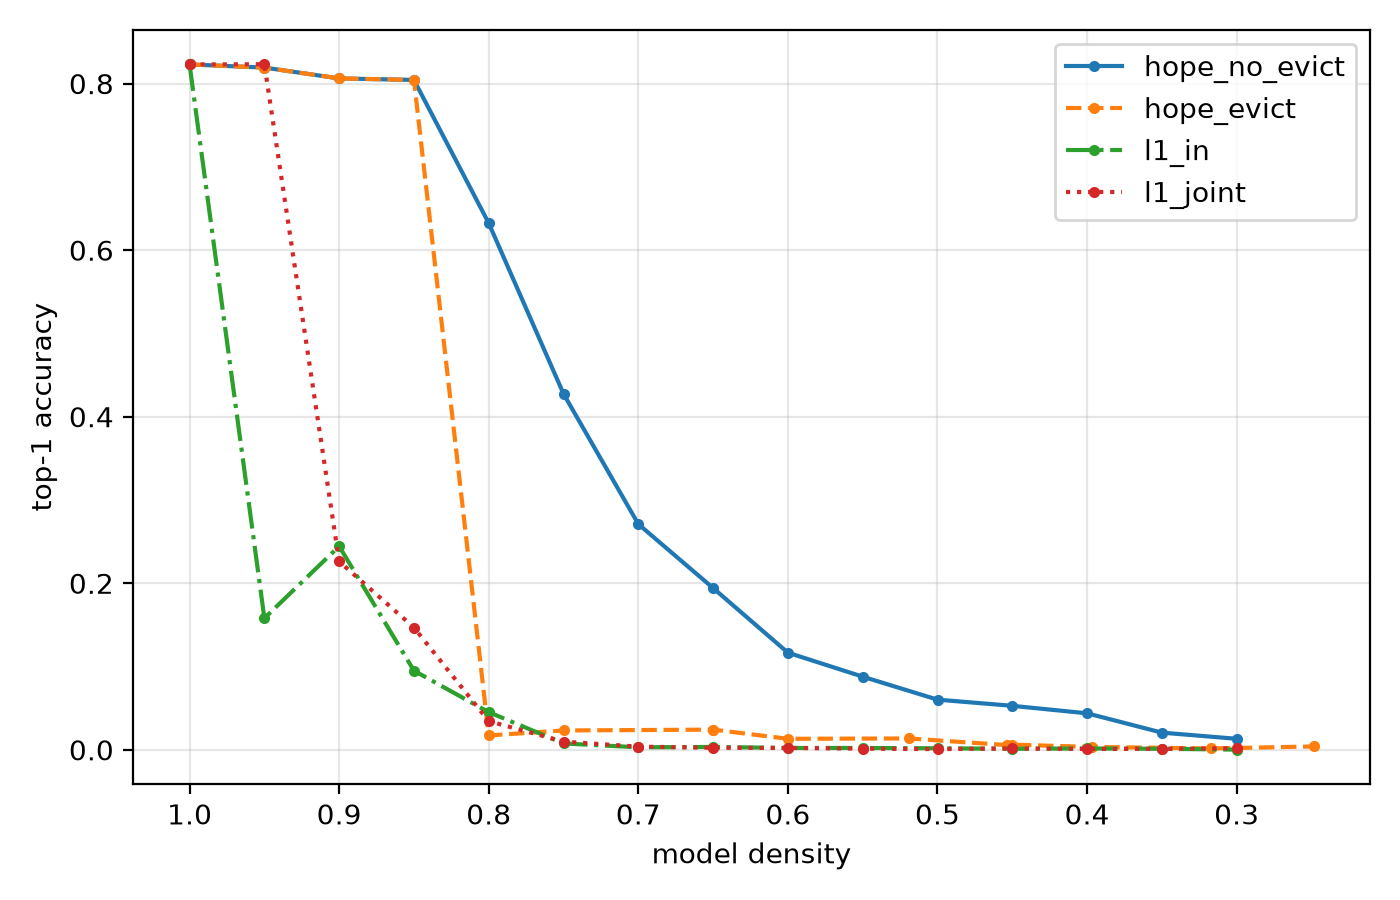
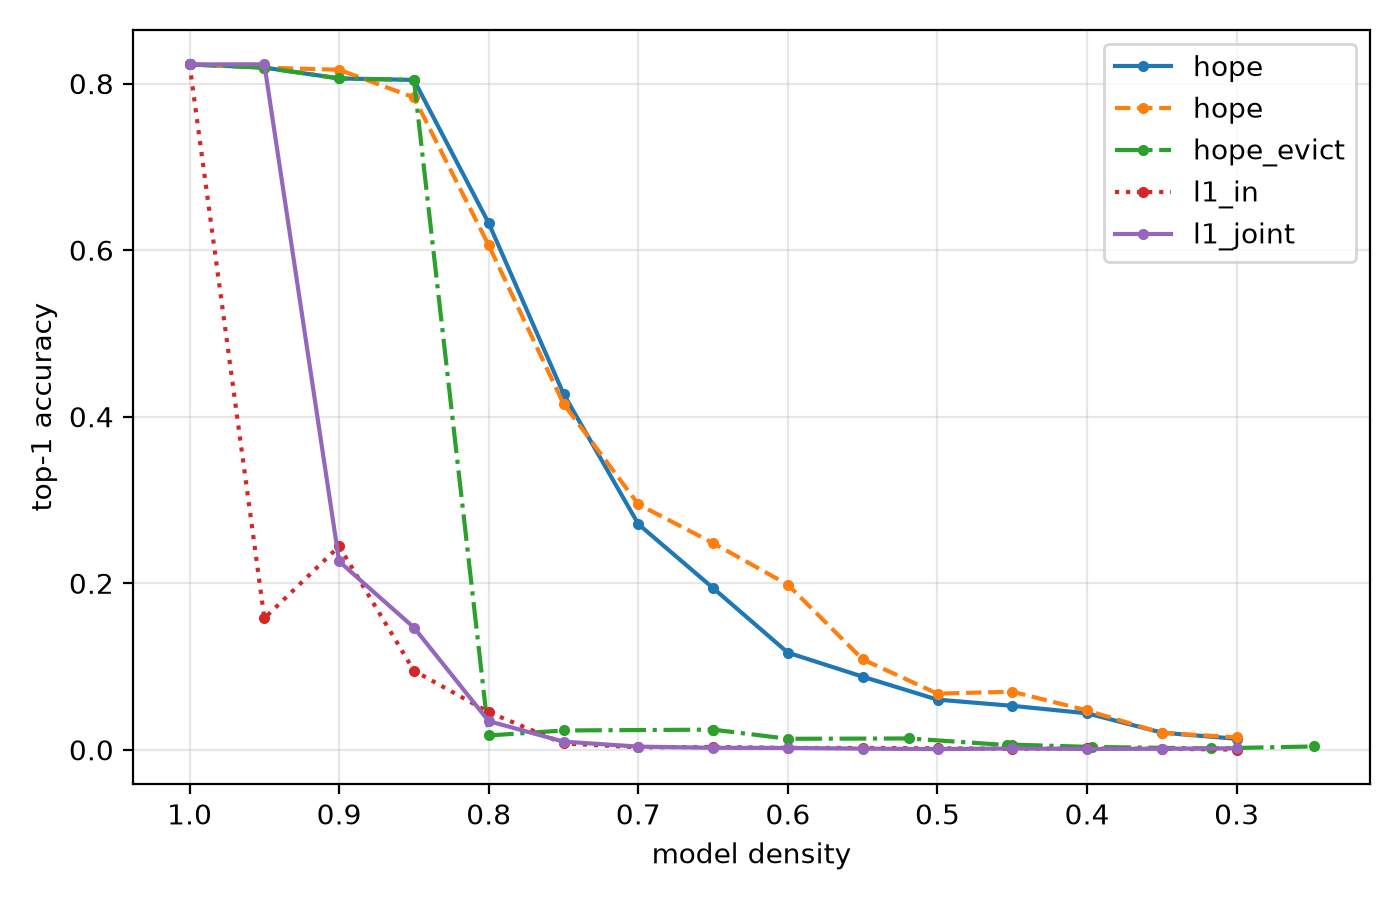
add exact kernel vit sweep and faster kernels

diff --git a/hope/cache.py b/hope/cache.py
@@ -9,12 +9,17 @@ from .parent import synthesize_parent
 
 
 class LayerCache:
-    """Per-layer pair geometry cache; costs are O(1) scalar arithmetic at scan time."""
+    """Per-layer pair geometry cache; costs are O(1) scalar arithmetic at scan time.
 
-    def __init__(self, surrogate, kernel_mode="zero_bias", pair_dtype=None):
+    slim mode keeps only the b matrix resident after init and recomputes pair geometry
+    on demand, so wide layers (Whisper large) fit in memory.
+    """
+
+    def __init__(self, surrogate, kernel_mode="zero_bias", pair_dtype=None, slim=False):
         self.surrogate = surrogate
         self.kernel_mode = kernel_mode
         self.act = get_kernels(surrogate.activation)
+        self.slim = slim
         n = surrogate.n
         self.active = np.ones(n, dtype=bool)
         w_aug = surrogate.w_aug
@@ -32,35 +37,61 @@ class LayerCache:
             self.b_mat[ii, jj] = b
             self.b_mat[jj, ii] = b
         if pair_dtype is not None:
-            for name in ("g", "o", "rho_hat", "b_mat"):
+            self.b_mat = self.b_mat.astype(pair_dtype)
+        self._tri = np.triu_indices(n, k=1) if n > 1 else (np.empty(0, dtype=np.int64),) * 2
+        self._tri = (self._tri[0].astype(np.int32), self._tri[1].astype(np.int32))
+        if slim:
+            self._g_diag = np.diag(self.g).copy()
+            self._o_diag = np.diag(self.o).copy()
+            self._norms = np.maximum(np.linalg.norm(surrogate.w_eff, axis=1), TINY)
+            self.g = self.o = self.rho_hat = None
+        elif pair_dtype is not None:
+            for name in ("g", "o", "rho_hat"):
                 setattr(self, name, getattr(self, name).astype(pair_dtype))
 
     @property
     def n_live(self):
         return int(self.active.sum())
 
+    def _pair_geometry(self, ii, jj):
+        """(g11, g12, g22, o11, o12, o22, rho) for pair index arrays."""
+        if not self.slim or self.g is not None:
+            return (
+                self.g[ii, ii], self.g[ii, jj], self.g[jj, jj],
+                self.o[ii, ii], self.o[ii, jj], self.o[jj, jj],
+                self.rho_hat[ii, jj],
+            )
+        surr = self.surrogate
+        w_aug = surr.w_aug
+        g12 = np.einsum("ij,ij->i", w_aug[ii], w_aug[jj])
+        o12 = np.einsum("ij,ij->i", surr.w_out[ii], surr.w_out[jj])
+        cos = np.einsum("ij,ij->i", surr.w_eff[ii], surr.w_eff[jj]) / (self._norms[ii] * self._norms[jj])
+        rho = warped_correlation(cos, surr.gamma[ii], surr.gamma[jj], self._norms[ii], self._norms[jj])
+        return (
+            self._g_diag[ii], g12, self._g_diag[jj],
+            self._o_diag[ii], o12, self._o_diag[jj], rho,
+        )
+
+    def pair_rho(self, i, j):
+        return float(self._pair_geometry(np.array([i]), np.array([j]))[6][0])
+
     def _cross_batch(self, gamma_u, beta_u, gamma_k, beta_k, corr, k_uu, k_kk):
         if self.kernel_mode == "zero_bias":
             return self.act.interaction(corr) * np.sqrt(np.maximum(k_uu * k_kk, 0.0))
         return self.act.cross_exact(gamma_u, beta_u, gamma_k, beta_k, corr)
 
-    def _objective_batch(self, c1, c2, ii, jj, o11, o12, o22):
+    def _objective_batch(self, c1, c2, ii, jj, rho, o11, o12, o22):
         surr = self.surrogate
         gi2 = surr.gamma[ii] ** 2
         gj2 = surr.gamma[jj] ** 2
         gi = np.abs(surr.gamma[ii])
         gj = np.abs(surr.gamma[jj])
-        rho = self.rho_hat[ii, jj]
         cov_ij = gi * gj * rho
         beta_u = c1 * surr.beta[ii] + c2 * surr.beta[jj]
         var_u = c1 * c1 * gi2 + c2 * c2 * gj2 + 2 * c1 * c2 * cov_ij
         gamma_u = np.sqrt(np.maximum(var_u, 0.0))
-        corr_ui = np.clip(
-            (c1 * gi2 + c2 * cov_ij) / np.maximum(gamma_u * gi, TINY), -1.0, 1.0
-        )
-        corr_uj = np.clip(
-            (c2 * gj2 + c1 * cov_ij) / np.maximum(gamma_u * gj, TINY), -1.0, 1.0
-        )
+        corr_ui = np.clip((c1 * gi2 + c2 * cov_ij) / np.maximum(gamma_u * gi, TINY), -1.0, 1.0)
+        corr_uj = np.clip((c2 * gj2 + c1 * cov_ij) / np.maximum(gamma_u * gj, TINY), -1.0, 1.0)
         k_uu = self.act.self_kernel(gamma_u, beta_u)
         k_ui = self._cross_batch(gamma_u, beta_u, gi, surr.beta[ii], corr_ui, k_uu, self.k_ii[ii])
         k_uj = self._cross_batch(gamma_u, beta_u, gj, surr.beta[jj], corr_uj, k_uu, self.k_ii[jj])
@@ -71,12 +102,8 @@ class LayerCache:
 
     def _pair_b(self, ii, jj):
         """Cached scalar b = <psi*, f_i + f_j> for pairs, eq (40) context, vectorized eq (14)."""
-        g11 = np.maximum(self.g[ii, ii], TINY)
-        g12 = self.g[ii, jj]
-        g22 = self.g[jj, jj]
-        o11 = self.o[ii, ii]
-        o12 = self.o[ii, jj]
-        o22 = self.o[jj, jj]
+        g11, g12, g22, o11, o12, o22, rho = self._pair_geometry(ii, jj)
+        g11 = np.maximum(g11, TINY)
 
         l11 = np.sqrt(g11)
         l21 = g12 / l11
@@ -104,8 +131,8 @@ class LayerCache:
         q2 = np.where(degen, 0.0, q2)
 
         # eq (11): sign check in the exact non-linearized objective
-        obj_pos, k_uu_pos, z_pos = self._objective_batch(q1, q2, ii, jj, o11, o12, o22)
-        obj_neg, k_uu_neg, z_neg = self._objective_batch(-q1, -q2, ii, jj, o11, o12, o22)
+        obj_pos, k_uu_pos, z_pos = self._objective_batch(q1, q2, ii, jj, rho, o11, o12, o22)
+        obj_neg, k_uu_neg, z_neg = self._objective_batch(-q1, -q2, ii, jj, rho, o11, o12, o22)
         neg = obj_neg > obj_pos
         k_uu = np.where(neg, k_uu_neg, k_uu_pos)
         z_norm = np.where(neg, z_neg, z_pos)
@@ -118,23 +145,28 @@ class LayerCache:
 
     def merge_costs(self):
         """J_merge and s* for all active pairs from cached scalars, eq (6), (40)."""
-        act = np.where(self.active)[0]
-        if act.size < 2:
-            return act[:0], act[:0], np.empty(0), np.empty(0)
-        ii, jj = np.triu_indices(act.size, k=1)
-        ii, jj = act[ii], act[jj]
-        cap_i, cap_j = self.caps[ii], self.caps[jj]
+        if self.n_live < 2:
+            empty = np.empty(0, dtype=np.int64)
+            return empty, empty, np.empty(0), np.empty(0)
+        # cached full-pair indices, filtered by the live mask; float32 is enough to rank
+        keep = self.active[self._tri[0]] & self.active[self._tri[1]]
+        ii = self._tri[0][keep].astype(np.int64)
+        jj = self._tri[1][keep].astype(np.int64)
+        # float32 ranking only where the b matrix is already float16 (wide layers)
+        dt = np.float32 if self.b_mat.dtype == np.float16 else np.float64
+        cap_i = self.caps[ii].astype(dt)
+        cap_j = self.caps[jj].astype(dt)
         a = cap_i * cap_i + cap_j * cap_j
-        b = self.b_mat[ii, jj]
-        e_rem_pair = np.maximum(self.e_rem - cap_i - cap_j, E_REM_FLOOR)
-        s = (a + b * e_rem_pair) / np.maximum(2 * e_rem_pair + b, TINY)
-        j = j_merge(a, b, s, cap_i, cap_j, self.e_rem, self.n_live)
+        b = self.b_mat[ii, jj].astype(dt)
+        e_rem_pair = np.maximum(dt(self.e_rem) - cap_i - cap_j, dt(E_REM_FLOOR))
+        s = (a + b * e_rem_pair) / np.maximum(2 * e_rem_pair + b, dt(TINY))
+        j = j_merge(a, b, s, cap_i, cap_j, dt(self.e_rem), self.n_live)
         return ii, jj, j, s
 
     def synthesize(self, i, j):
         """JIT rank-2 synthesis for the winning pair only, App B.4."""
         return synthesize_parent(
-            self.surrogate, i, j, self.rho_hat[i, j], self.e_rem, self.kernel_mode
+            self.surrogate, i, j, self.pair_rho(i, j), self.e_rem, self.kernel_mode
         )
 
     def apply_prune(self, i):
@@ -154,22 +186,27 @@ class LayerCache:
         surr.beta[i] = parent.beta
         surr.w_out[i] = parent.w_out
 
-        w_aug = surr.w_aug
-        self.g[i, :] = w_aug @ w_aug[i]
-        self.g[:, i] = self.g[i, :]
-        self.o[i, :] = surr.w_out @ surr.w_out[i]
-        self.o[:, i] = self.o[i, :]
         self.k_ii[i] = self.act.self_kernel(parent.gamma, parent.beta)
         self.caps[i] = parent.s
 
-        norms = np.maximum(np.linalg.norm(surr.w_eff, axis=1), TINY)
-        cos = (surr.w_eff @ surr.w_eff[i]) / (norms * norms[i])
-        row = warped_correlation(cos, surr.gamma, surr.gamma[i], norms, norms[i])
-        row[i] = 1.0
-        dead = norms <= TINY
-        row[dead] = 0.0
-        self.rho_hat[i, :] = row
-        self.rho_hat[:, i] = row
+        if self.slim:
+            w_aug_i = np.concatenate([parent.w_eff, [parent.b]])
+            self._g_diag[i] = float(w_aug_i @ w_aug_i)
+            self._o_diag[i] = float(parent.w_out @ parent.w_out)
+            self._norms[i] = max(float(np.linalg.norm(parent.w_eff)), TINY)
+        else:
+            w_aug = surr.w_aug
+            self.g[i, :] = w_aug @ w_aug[i]
+            self.g[:, i] = self.g[i, :]
+            self.o[i, :] = surr.w_out @ surr.w_out[i]
+            self.o[:, i] = self.o[i, :]
+            norms = np.maximum(np.linalg.norm(surr.w_eff, axis=1), TINY)
+            cos = (surr.w_eff @ surr.w_eff[i]) / (norms * norms[i])
+            row = warped_correlation(cos, surr.gamma, surr.gamma[i], norms, norms[i])
+            row[i] = 1.0
+            row[norms <= TINY] = 0.0
+            self.rho_hat[i, :] = row
+            self.rho_hat[:, i] = row
 
         others = np.where(self.active & (np.arange(surr.n) != i))[0]
         if others.size:

diff --git a/hope/activations.py b/hope/activations.py
@@ -44,11 +44,12 @@ def gelu_self_kernel_quad(gamma, beta):
 
 
 def gelu_mean(gamma, beta):
-    """E[gelu(y)] via Gauss-Hermite."""
-    gamma = np.atleast_1d(np.asarray(gamma, dtype=np.float64))
-    beta = np.atleast_1d(np.asarray(beta, dtype=np.float64))
-    y = beta[..., None] + np.abs(gamma)[..., None] * np.sqrt(2.0) * _gh_x
-    return np.squeeze(gelu(y) @ _gh_w / np.sqrt(np.pi))
+    """Closed form E[gelu(y)] = E[y Phi(y)] for y ~ N(beta, gamma^2), by Stein's identity."""
+    beta = np.asarray(beta, dtype=np.float64)
+    s2 = np.asarray(gamma, dtype=np.float64) ** 2
+    root = np.sqrt(1.0 + s2)
+    c = beta / root
+    return beta * ndtr(c) + s2 * _phi(c) / root
 
 
 def gelu_cross_kernel_exact(gamma_i, beta_i, gamma_j, beta_j, rho_hat):
@@ -63,19 +64,17 @@ def gelu_cross_kernel_exact(gamma_i, beta_i, gamma_j, beta_j, rho_hat):
     shape = r.shape
     gi, gj, bi, bj, r = (a.ravel() for a in (gi, gj, bi, bj, r))
 
+    # 1D reduction: the inner expectation over the second neuron is closed form
     x = np.sqrt(2.0) * _gh_x
     out = np.empty(r.size)
-    for lo in range(0, r.size, 8192):
-        hi = lo + 8192
+    for lo in range(0, r.size, 65536):
+        hi = lo + 65536
         rc = np.clip(r[lo:hi], -DEGENERATE_RHO, DEGENERATE_RHO)
-        root = np.sqrt(1.0 - rc * rc)
         y1 = bi[lo:hi, None] + gi[lo:hi, None] * x
-        g1 = gelu(y1) * _gh_w
-        z2 = rc[:, None, None] * x[:, None] + root[:, None, None] * x[None, :]
-        y2 = bj[lo:hi, None, None] + gj[lo:hi, None, None] * z2
-        inner = gelu(y2) @ _gh_w
-        main = np.einsum("pi,pi->p", g1, inner) / np.pi
-
+        s_in = (gj[lo:hi] * np.sqrt(1.0 - rc * rc))[:, None]
+        m_in = bj[lo:hi, None] + (gj[lo:hi] * rc)[:, None] * x
+        inner = gelu_mean(s_in, m_in)
+        main = (gelu(y1) * inner) @ _gh_w / np.sqrt(np.pi)
         z_col = bj[lo:hi, None] + gj[lo:hi, None] * np.sign(r[lo:hi])[:, None] * x
         coll = (gelu(y1) * gelu(z_col)) @ _gh_w / np.sqrt(np.pi)
         out[lo:hi] = np.where(np.abs(r[lo:hi]) >= DEGENERATE_RHO, coll, main)

diff --git a/hope/audit.py b/hope/audit.py
@@ -41,7 +41,7 @@ def audit_merge_path(cache, i, j, parent, steps=20):
     tol = 1e-9 * max(e_terminal, 1.0)
     margins = e_path - e_terminal
     return {
-        "rho_ij": float(cache.rho_hat[i, j]),
+        "rho_ij": float(cache.pair_rho(i, j)),
         "violations": int(np.sum(margins < -tol)),
         "min_margin": float(margins.min()),
         "steps": steps,

diff --git a/README.md b/README.md
@@ -55,12 +55,12 @@ The magnitude baselines fall to chance after removing 5 to 10 percent of filters
 
 ![vit accuracy vs density](assets/vit_curve.png)
 
-| density | HOPE | L1 in | L1 joint |
-|---|---|---|---|
-| 1.00 | 0.823 | 0.823 | 0.823 |
-| 0.90 | 0.806 | 0.244 | 0.226 |
-| 0.85 | 0.804 | 0.095 | 0.147 |
-| 0.80 | 0.632 | 0.045 | 0.034 |
+| density | HOPE | HOPE exact | L1 in | L1 joint |
+|---|---|---|---|---|
+| 1.00 | 0.823 | 0.823 | 0.823 | 0.823 |
+| 0.90 | 0.806 | 0.817 | 0.244 | 0.226 |
+| 0.85 | 0.804 | 0.783 | 0.095 | 0.147 |
+| 0.80 | 0.632 | 0.606 | 0.045 | 0.034 |
 
 Compression acts on the MLP hidden units, about two thirds of the parameters. The extension derives a closed-form GELU self-kernel, reduces the exact cross-kernel to a one dimensional integral, and replaces the eq (15) scale split with a 2D coefficient search, since that split requires positive homogeneity and GELU is not positively homogeneous.
 
@@ -106,7 +106,7 @@ Kernels are gated against 40M sample Monte Carlo at 0.1 percent; parent deployme
 ## Notes and limitations
 
 - The Gaussian surrogate carries measurable error on real activations: median 18.5 percent per channel on ResNet-50 (Test D). Decisions depend on cost rankings rather than absolute values.
-- The zero-bias cross-kernel degrades with bias: 7 percent normalized error at |beta/gamma| 0.25, 48 percent at 1.5. ViT units are substantially more biased than ResNet filters, so candidate ranking there is approximate; every executed merge is repriced with exact kernels.
+- The zero-bias cross-kernel degrades with bias: 7 percent normalized error at |beta/gamma| 0.25, 48 percent at 1.5. ViT units are substantially more biased than ResNet filters. A full exact-kernel sweep on ViT produced a different but comparable trajectory (crossing within 2 points in the usable region), so scan precision is not what limits the compression floor; every executed merge is repriced with exact kernels in both modes.
 - Block eviction is unsound on pre-norm transformers and off by default for ViT: one eviction collapsed accuracy from 0.80 to 0.03, and the static footprint of App B.2 overprices eviction of already thinned blocks.
 - All 2310 ViT merges satisfied the Lemma C.3 capacity bound; merges are rare on ResNet-50 (1 in 686 actions).
 - DEFT numbers are single seed, and P was selected after observing the P=40 result. A multi-seed grid has not been run.
